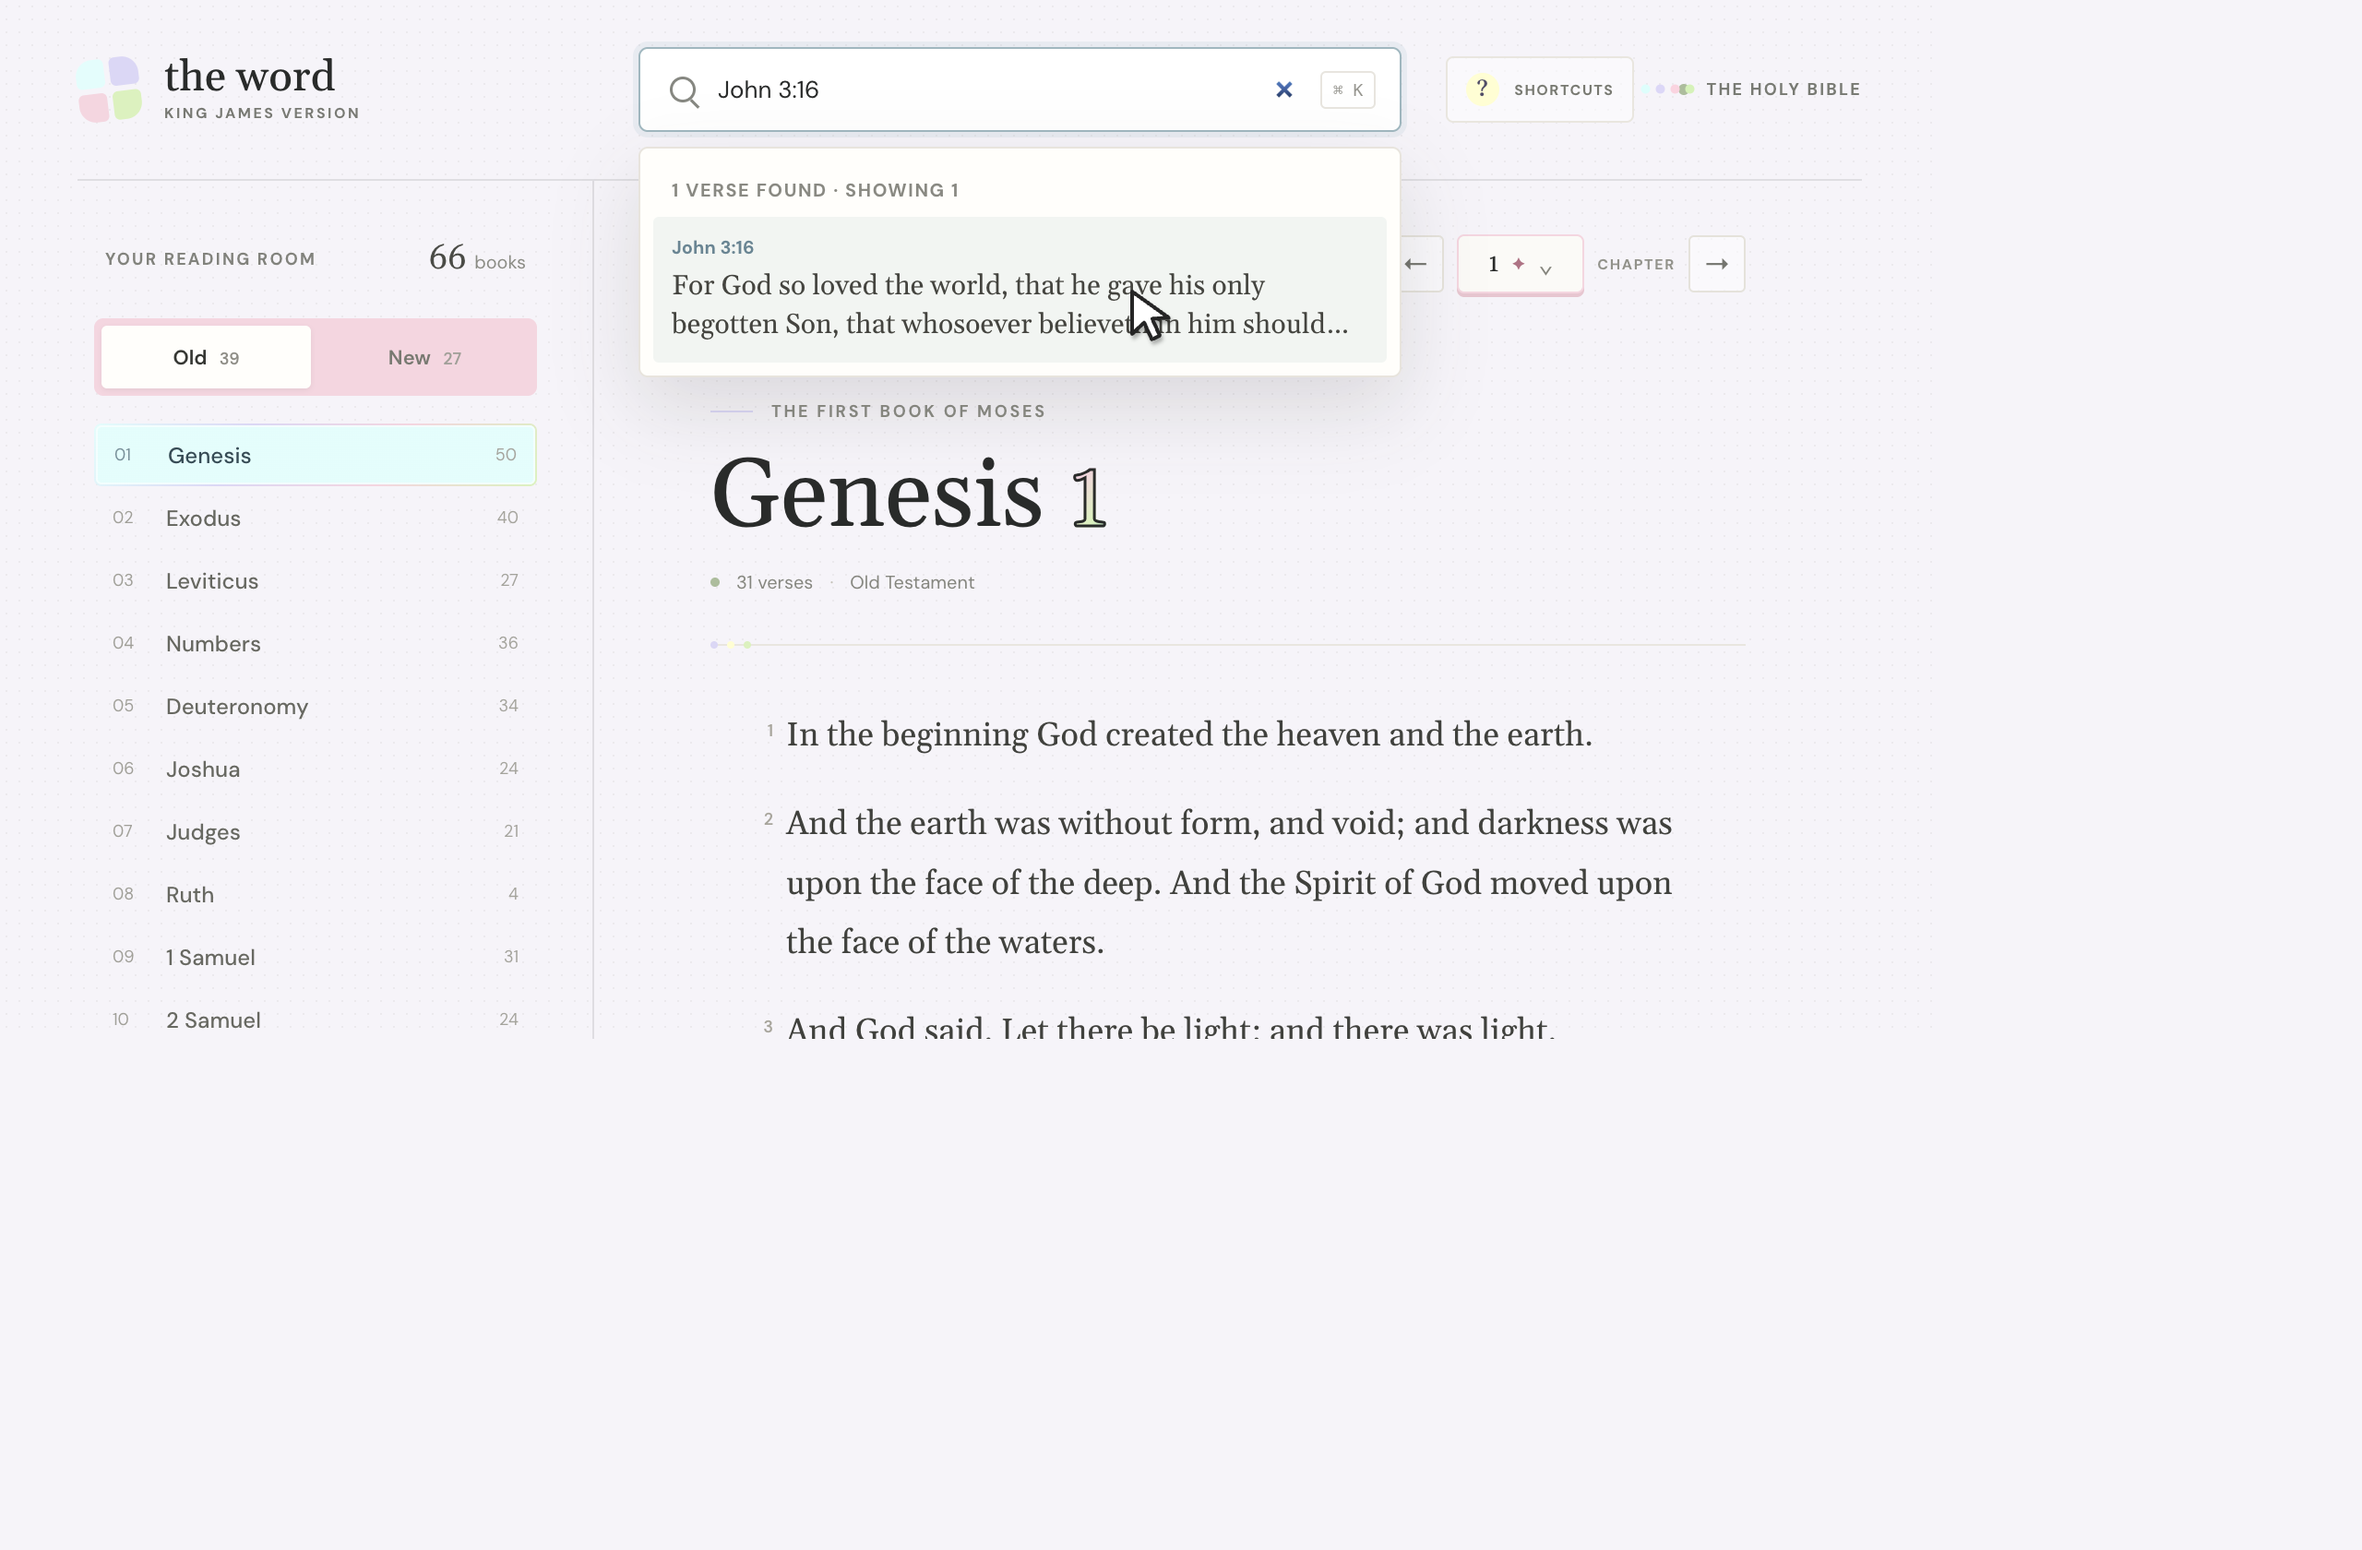
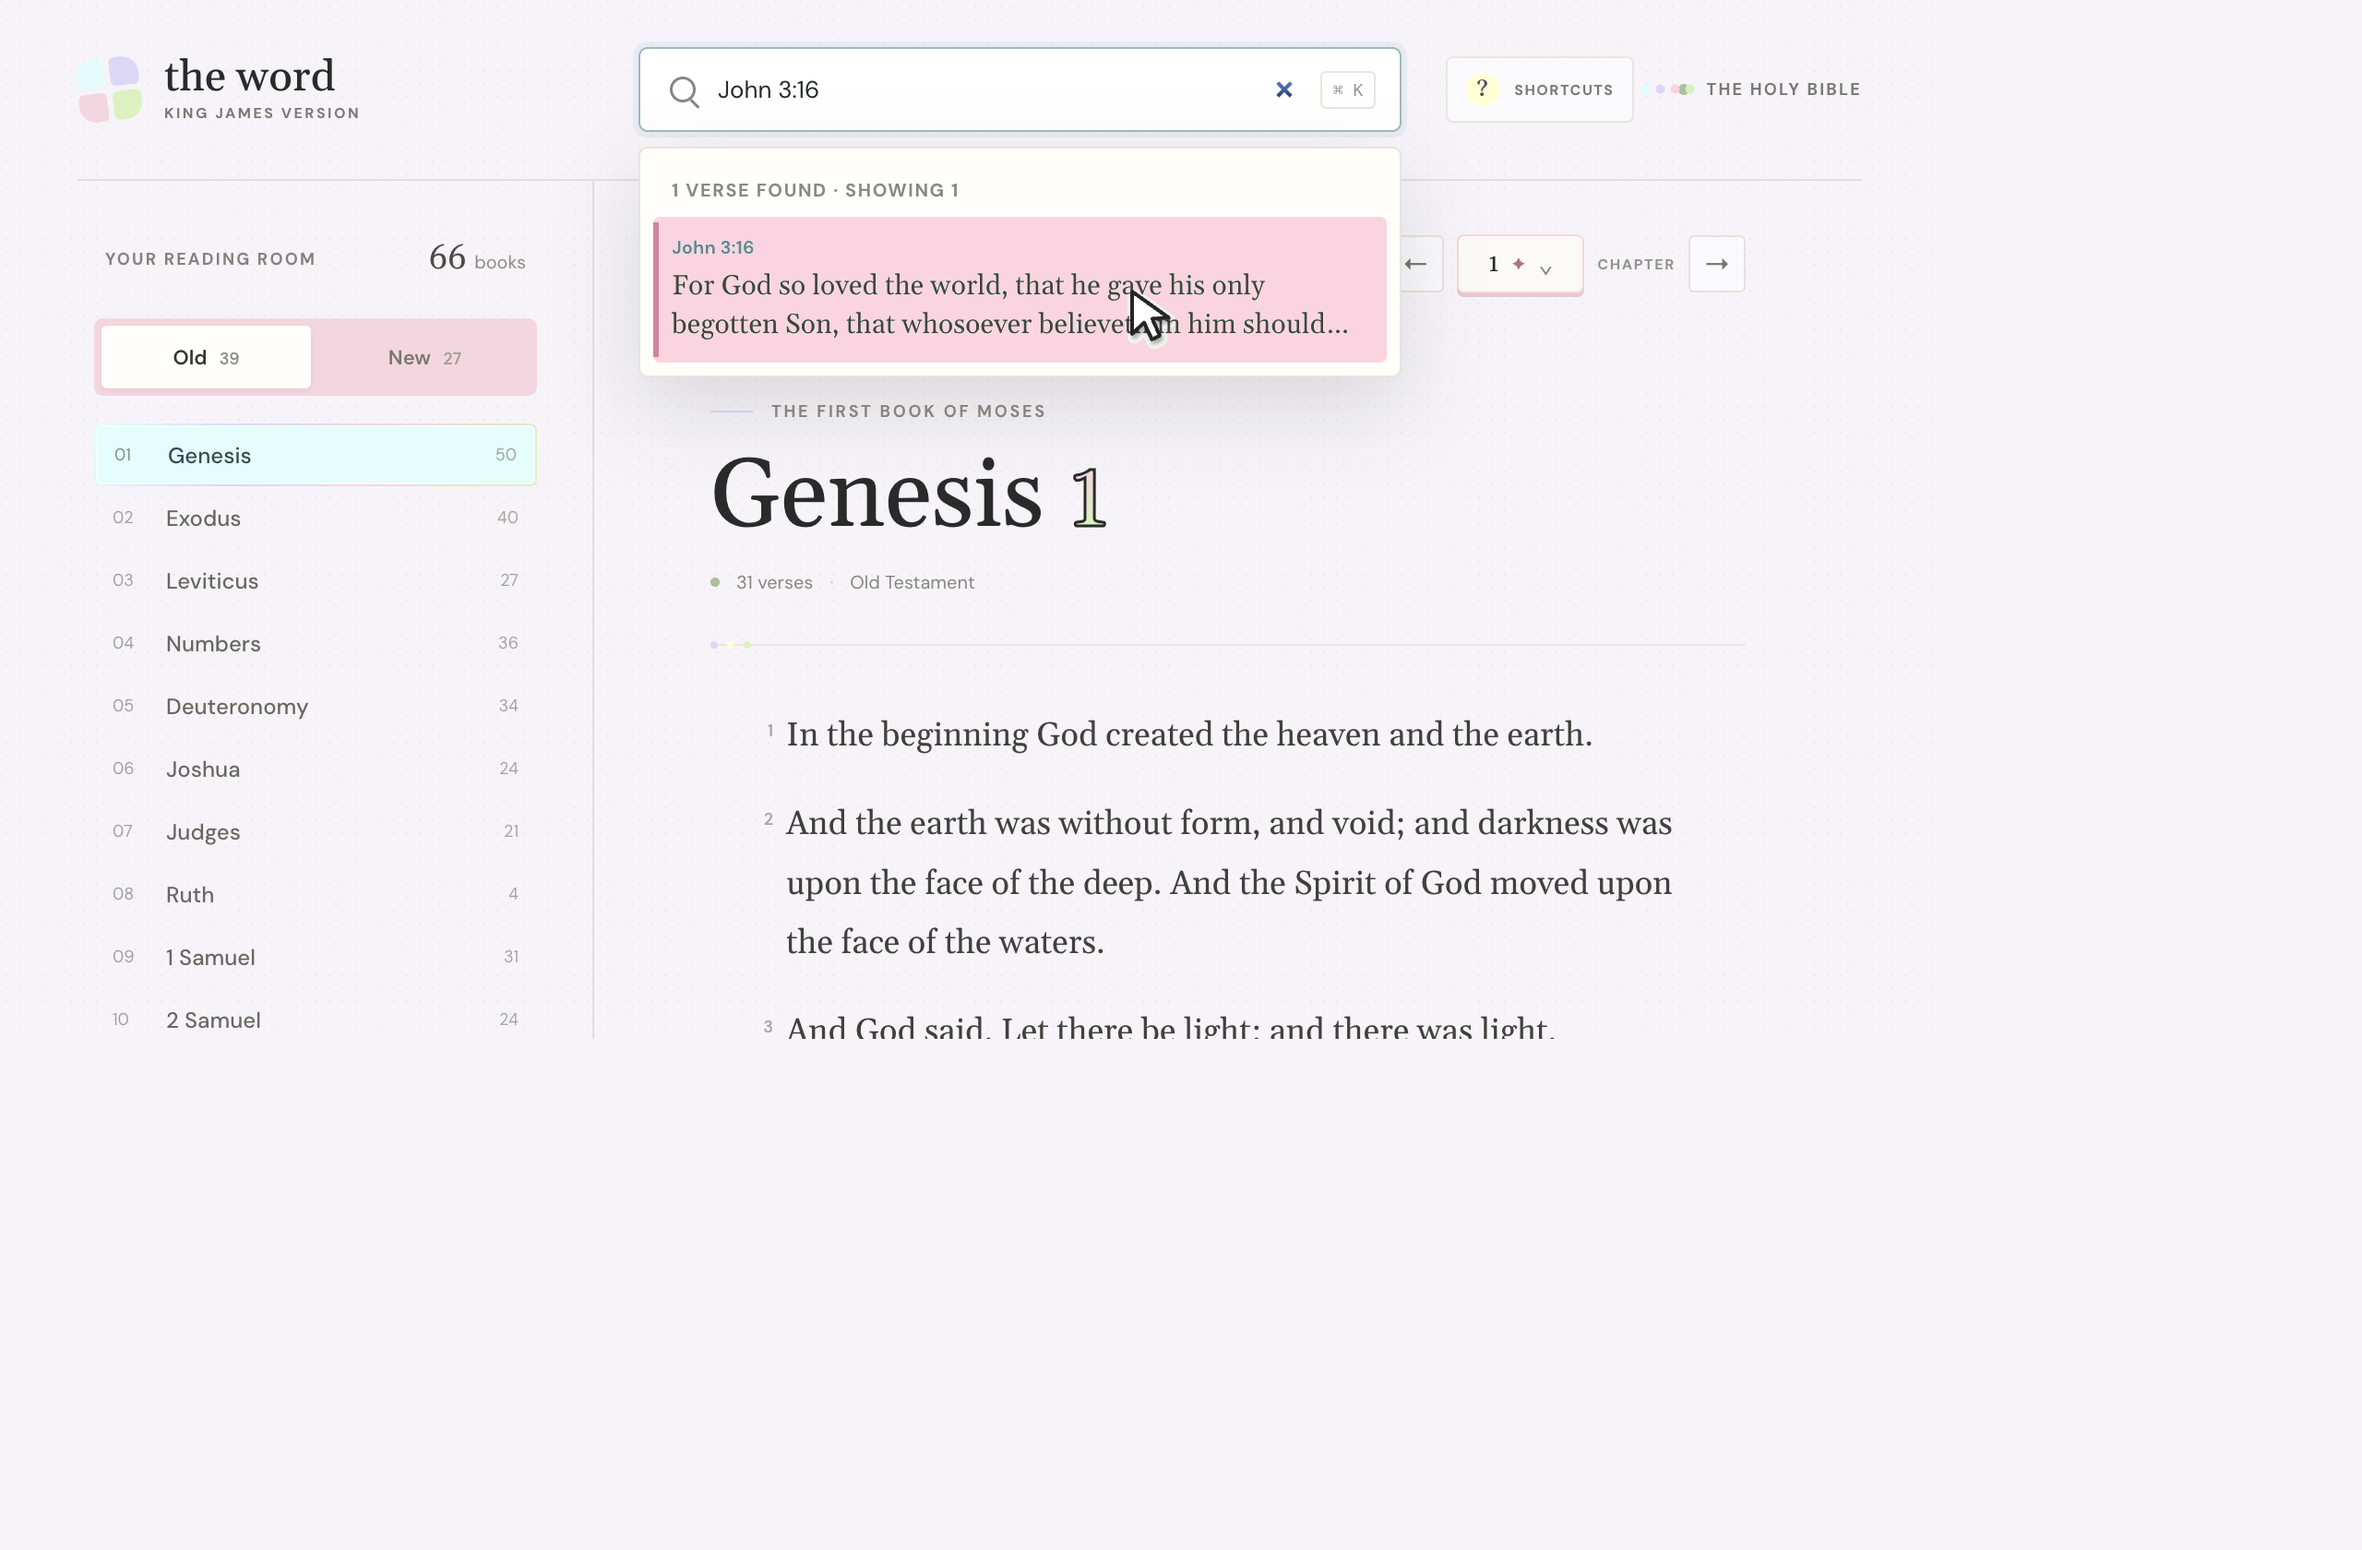
Add navigation and styling to search

Changed region(s): [[0.25, 0.1238, 0.5938, 0.2476]]

diff --git a/app.js b/app.js
@@ -12,7 +12,7 @@ const BOOK_TITLES = [
 ];
 
 const CHAPTER_GRADIENT_COLORS = ["var(--chapter-blue)", "var(--chapter-lavender)", "var(--chapter-pink)", "var(--chapter-green)"];
-const state = { book: 1, chapter: 1, testament: "old", verses: [], chapters: new Map(), searchTimer: null, searchMatches: [], searchQuery: "", searchShown: 0 };
+const state = { book: 1, chapter: 1, testament: "old", verses: [], chapters: new Map(), searchTimer: null, searchMatches: [], searchQuery: "", searchShown: 0, searchActiveIndex: -1 };
 const elements = {
   bookList: document.querySelector("#book-list"),
   chapterSelect: document.querySelector("#chapter-select"),
@@ -194,13 +194,43 @@ function appendHighlighted(container, text, query) {
   container.append(mark, document.createTextNode(text.slice(index + query.length)));
 }
 
+function openSearchResult(verse) {
+  state.book = verse.book;
+  state.chapter = verse.chapter;
+  state.testament = testamentFor(verse.book);
+  state.searchActiveIndex = -1;
+  elements.searchResults.hidden = true;
+  elements.searchInput.value = "";
+  elements.searchInput.setAttribute("aria-expanded", "false");
+  elements.searchInput.removeAttribute("aria-activedescendant");
+  renderBookList();
+  renderChapter(verse.verse);
+}
+
+function setActiveSearchResult(index) {
+  const results = [...elements.searchResults.querySelectorAll(".search-result")];
+  if (results.length === 0) return;
+
+  state.searchActiveIndex = Math.max(0, Math.min(index, results.length - 1));
+  results.forEach((result, resultIndex) => {
+    result.setAttribute("aria-selected", String(resultIndex === state.searchActiveIndex));
+  });
+  const activeResult = results[state.searchActiveIndex];
+  elements.searchInput.setAttribute("aria-activedescendant", activeResult.id);
+  activeResult.scrollIntoView({ block: "nearest" });
+}
+
 function appendSearchResults() {
   const batch = state.searchMatches.slice(state.searchShown, state.searchShown + 12);
-  for (const verse of batch) {
+  for (const [batchIndex, verse] of batch.entries()) {
+    const resultIndex = state.searchShown + batchIndex;
     const button = document.createElement("button");
     button.type = "button";
     button.className = "search-result";
+    button.id = `search-result-${resultIndex}`;
+    button.tabIndex = -1;
     button.setAttribute("role", "option");
+    button.setAttribute("aria-selected", String(resultIndex === state.searchActiveIndex));
     const reference = document.createElement("span");
     reference.className = "result-reference";
     reference.textContent = `${bookName(verse.book)} ${verse.chapter}:${verse.verse}`;
@@ -208,15 +238,7 @@ function appendSearchResults() {
     text.className = "result-text";
     appendHighlighted(text, verse.text, state.searchQuery);
     button.append(reference, text);
-    button.addEventListener("click", () => {
-      state.book = verse.book;
-      state.chapter = verse.chapter;
-      state.testament = testamentFor(verse.book);
-      elements.searchResults.hidden = true;
-      elements.searchInput.value = "";
-      renderBookList();
-      renderChapter(verse.verse);
-    });
+    button.addEventListener("click", () => openSearchResult(verse));
     elements.searchResults.append(button);
   }
   state.searchShown += batch.length;
@@ -254,17 +276,21 @@ function findReferenceMatches(query) {
 function search(query) {
   const trimmed = query.trim();
   elements.searchResults.replaceChildren();
+  state.searchActiveIndex = -1;
+  elements.searchInput.removeAttribute("aria-activedescendant");
   if (trimmed.length < 2) {
     state.searchMatches = [];
     state.searchQuery = "";
     state.searchShown = 0;
     elements.searchResults.hidden = true;
+    elements.searchInput.setAttribute("aria-expanded", "false");
     return;
   }
   const matches = findReferenceMatches(trimmed) ?? state.verses.filter((verse) =>
     verse.text.toLowerCase().includes(trimmed.toLowerCase())
   );
   elements.searchResults.hidden = false;
+  elements.searchInput.setAttribute("aria-expanded", "true");
   state.searchMatches = matches;
   state.searchQuery = trimmed;
   state.searchShown = 0;
@@ -308,13 +334,48 @@ function bindEvents() {
   document.querySelector("#bottom-next").addEventListener("click", () => navigate(1));
   elements.searchInput.addEventListener("input", () => {
     clearTimeout(state.searchTimer);
+    state.searchActiveIndex = -1;
+    elements.searchInput.removeAttribute("aria-activedescendant");
     state.searchTimer = setTimeout(() => search(elements.searchInput.value), 120);
+  });
+  elements.searchInput.addEventListener("keydown", (event) => {
+    if (elements.searchResults.hidden) return;
+
+    if (event.key === "ArrowDown" || event.key === "ArrowUp") {
+      const results = elements.searchResults.querySelectorAll(".search-result");
+      if (results.length === 0) return;
+
+      event.preventDefault();
+      const direction = event.key === "ArrowDown" ? 1 : -1;
+      let nextIndex = state.searchActiveIndex < 0
+        ? (direction > 0 ? 0 : results.length - 1)
+        : state.searchActiveIndex + direction;
+
+      if (direction > 0 && nextIndex >= results.length && state.searchShown < state.searchMatches.length) {
+        elements.searchResults.querySelector(".search-more")?.remove();
+        appendSearchResults();
+      }
+
+      if (nextIndex < elements.searchResults.querySelectorAll(".search-result").length) {
+        setActiveSearchResult(nextIndex);
+      }
+      return;
+    }
+
+    if (event.key === "Enter" && state.searchActiveIndex >= 0) {
+      event.preventDefault();
+      elements.searchResults.querySelectorAll(".search-result")[state.searchActiveIndex]?.click();
+    }
   });
   elements.searchInput.addEventListener("focus", () => {
     if (elements.searchInput.value.trim().length >= 2) search(elements.searchInput.value);
   });
   document.addEventListener("click", (event) => {
-    if (!event.target.closest(".search-wrap")) elements.searchResults.hidden = true;
+    if (!event.target.closest(".search-wrap")) {
+      elements.searchResults.hidden = true;
+      elements.searchInput.setAttribute("aria-expanded", "false");
+      elements.searchInput.removeAttribute("aria-activedescendant");
+    }
   });
   bindKeyboardShortcuts({
     dialog: document.querySelector("#shortcuts-dialog"),
@@ -327,6 +388,8 @@ function bindEvents() {
     onEscape: () => {
       chapterPicker.close(true);
       elements.searchResults.hidden = true;
+      elements.searchInput.setAttribute("aria-expanded", "false");
+      elements.searchInput.removeAttribute("aria-activedescendant");
       closeSidebar();
     }
   });

diff --git a/styles.css b/styles.css
@@ -97,11 +97,13 @@ button:focus-visible, input:focus-visible, select:focus-visible, a:focus-visible
 .shortcut-row kbd { width: 43px; height: 34px; display: grid; place-items: center; border: 1px solid var(--shortcut-key-edge); border-radius: 3px; background: var(--shortcut-key-color); color: var(--shortcut-key-ink); font-family: var(--sans); font-size: 16px; box-shadow: 0 2px 0 var(--shortcut-key-edge); }
 .shortcuts-note { margin: 16px 0 0; color: #898981; font-size: 10px; line-height: 1.5; }
 
-.search-results { position: absolute; top: calc(100% + 8px); left: 0; right: 0; max-height: min(430px, 65vh); overflow: auto; padding: 7px; border: 1px solid #e8e4dc; border-radius: 5px; background: #fffefa; box-shadow: 0 16px 42px rgba(48, 47, 42, .14); }
+.search-results { position: absolute; top: calc(100% + 8px); left: 0; right: 0; max-height: min(430px, 65vh, calc(100dvh - 150px)); overflow: auto; padding: 7px; border: 1px solid #e8e4dc; border-radius: 5px; background: #fffefa; box-shadow: 0 16px 42px rgba(48, 47, 42, .14); }
 .search-results[hidden] { display: none; }
 .search-summary { padding: 9px 10px 8px; color: #898981; font-size: 10px; font-weight: 700; letter-spacing: .8px; text-transform: uppercase; }
 .search-result { display: block; width: 100%; padding: 10px; border: 0; border-radius: 3px; background: transparent; text-align: left; cursor: pointer; }
 .search-result:hover, .search-result:focus-visible { background: #f1f5f2; }
+.search-result[aria-selected="true"] { background: var(--pink); color: #67434e; box-shadow: inset 3px 0 #d18499; }
+.search-result[aria-selected="true"]:hover, .search-result[aria-selected="true"]:focus-visible { background: var(--pink); }
 .search-more { width: 100%; padding: 11px 9px; border: 0; border-top: 1px solid #eeece6; background: transparent; color: #628694; font-size: 11px; font-weight: 600; cursor: pointer; }
 .search-more:hover { background: #f1f5f2; }
 .result-reference { display: block; margin-bottom: 4px; color: #628694; font-size: 10px; font-weight: 700; }

diff --git a/index.html b/index.html
@@ -26,7 +26,7 @@
         <div class="search-wrap">
           <label class="search-box" for="search-input">
             <span class="search-icon" aria-hidden="true"></span>
-            <input id="search-input" type="search" placeholder="Find a verse or phrase..." autocomplete="off" />
+            <input id="search-input" type="search" role="combobox" aria-autocomplete="list" aria-controls="search-results" aria-expanded="false" placeholder="Find a verse or phrase..." autocomplete="off" />
             <kbd>⌘ K</kbd>
           </label>
           <div class="search-results" id="search-results" role="listbox" aria-label="Search results" hidden></div>
